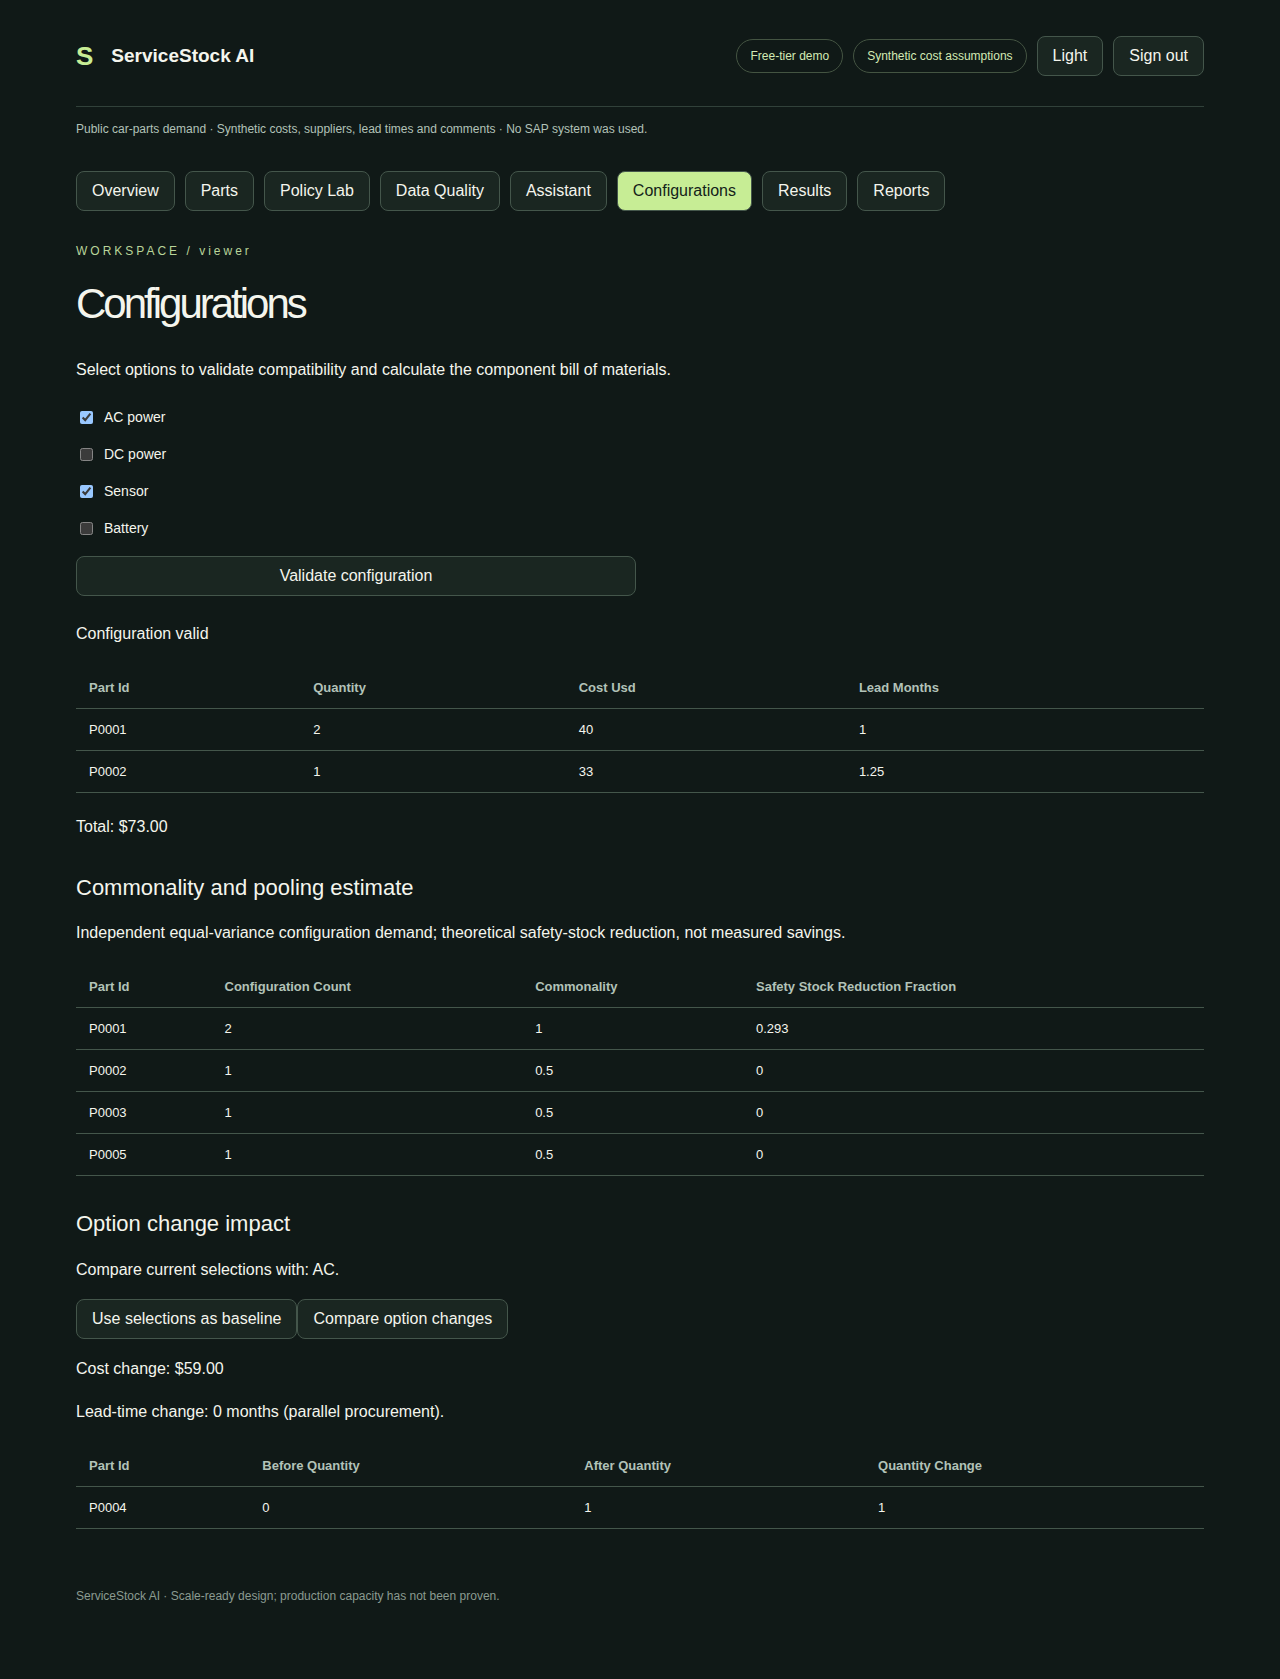
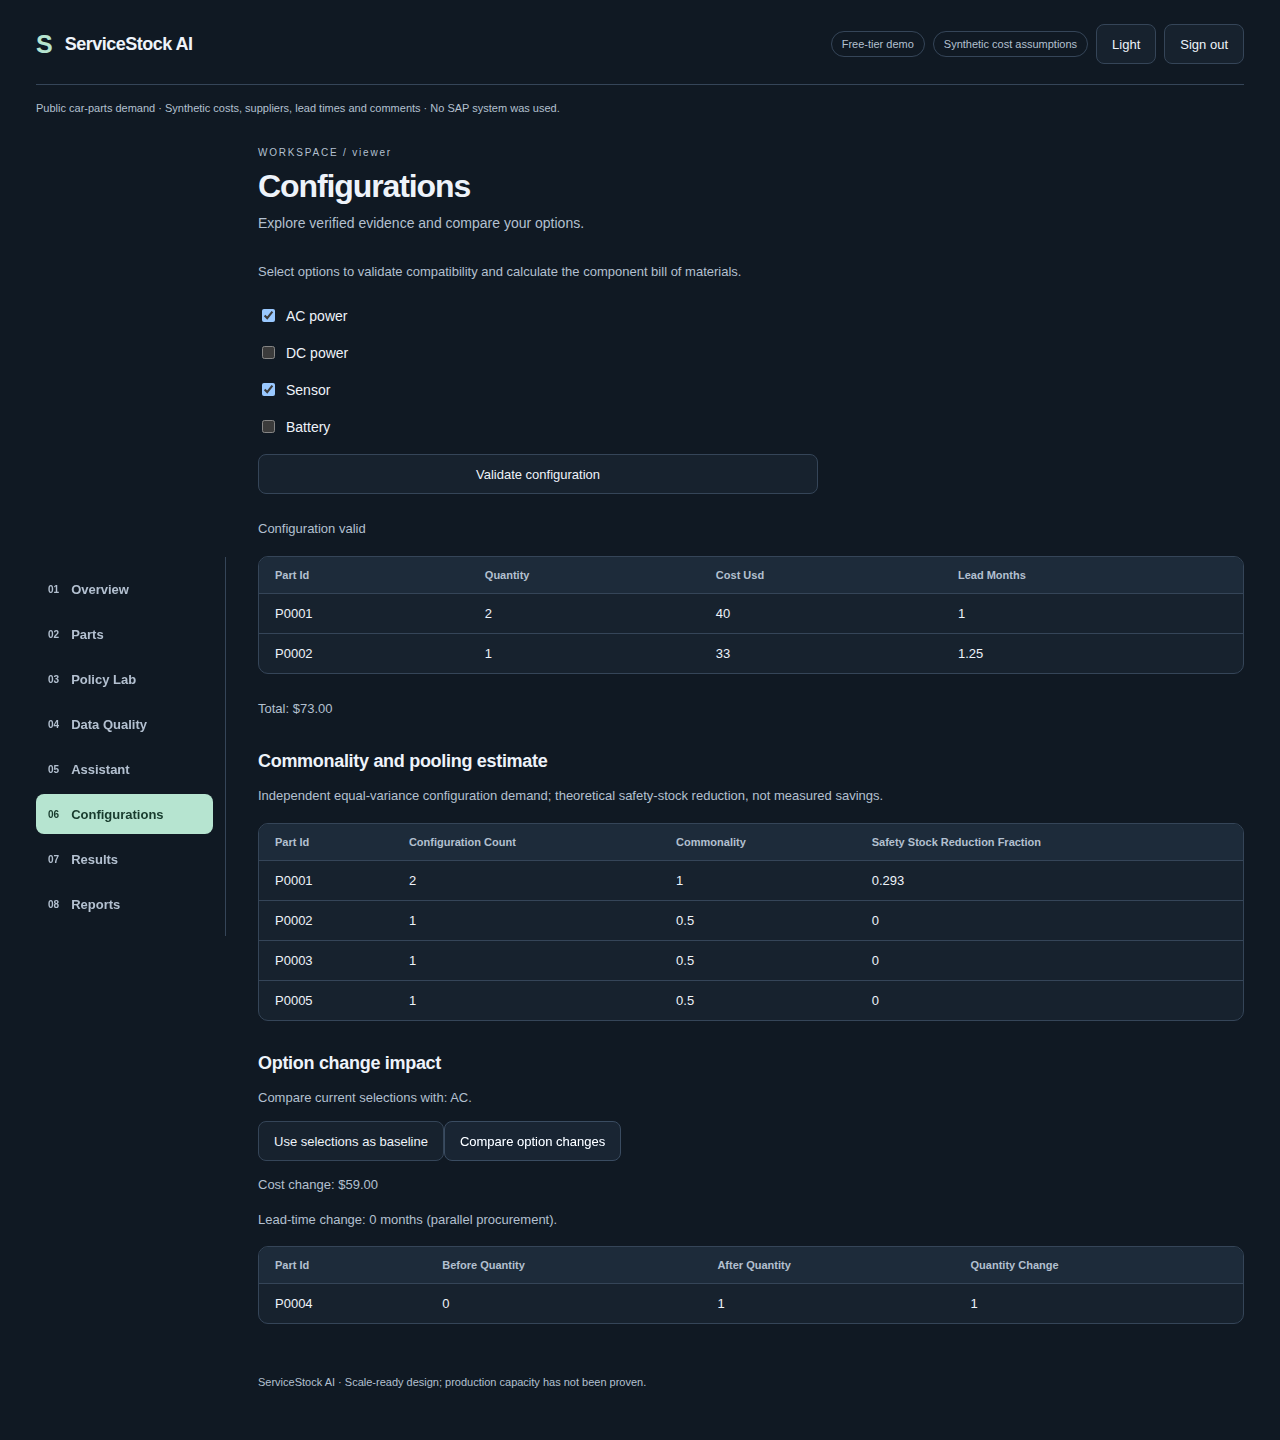
fix(web): resolve verified keyboard and contrast accessibility issues [skip render]

diff --git a/web/app/style.css b/web/app/style.css
@@ -10,10 +10,12 @@ main{--panel:#17222e;--text:#eef3fa;--muted:#b3c0d0;--line:#354558;--canvas:#101
 main[data-theme=light]{--panel:#fff;--text:#182536;--muted:#526275;--line:#d4dde7;--canvas:#f4f7fb;--accent:#d9efe5;--surface:#eaf0f6;background:var(--canvas)}
 header{padding:0 0 20px;gap:24px;border-color:var(--line)}header a{font-size:25px;color:var(--accent);gap:12px}header a span{color:var(--text);font-size:18px;letter-spacing:-.5px}.badges{gap:8px}.badge{font-size:11px;padding:6px 10px;color:var(--muted);border-color:var(--line)}
 .app-shell{display:grid;grid-template-columns:190px minmax(0,1fr);column-gap:32px;align-content:start}.app-shell>header,.app-shell>.provenance{grid-column:1/-1}.app-shell>div[role=status],.app-shell>section,.app-shell>footer{grid-column:2;min-width:0}.app-shell>nav{grid-column:1;grid-row:4 / span 2;display:flex;flex-direction:column;align-items:stretch;gap:5px;margin:0;align-self:start;position:sticky;top:24px;padding:12px 12px 12px 0;border-right:1px solid var(--line)}
-nav button{display:flex;align-items:center;text-align:left;gap:12px;border:0;background:transparent;padding:12px;font-size:13px;font-weight:550;border-radius:8px;color:var(--muted)}.nav-marker{font-size:10px;font-variant-numeric:tabular-nums;opacity:.8}nav button[aria-current=page]{background:var(--accent);color:#183b2d;font-weight:650}button:hover:not(:disabled){filter:brightness(1.1)}button{font-size:13px;min-height:40px}button.primary{background:var(--accent);color:#183b2d;border-color:transparent}
+nav button{display:flex;align-items:center;text-align:left;gap:12px;border:0;background:transparent;padding:12px;font-size:13px;font-weight:550;border-radius:8px;color:var(--muted)}.nav-marker{font-size:10px;font-variant-numeric:tabular-nums;opacity:1}nav button[aria-current=page]{background:var(--accent);color:#183b2d;font-weight:650}button:hover:not(:disabled){filter:brightness(1.1)}button{font-size:13px;min-height:40px}button.primary{background:var(--accent);color:#183b2d;border-color:transparent}
 .provenance{font-size:11px;margin:14px 0 26px}.eyebrow{font-size:10px;letter-spacing:1.8px;color:var(--muted);margin:0}.page-title{font-size:32px;letter-spacing:-1.1px;font-weight:650;margin:8px 0}.page-intro{color:var(--muted);font-size:14px;margin:0 0 26px}.cards{gap:16px}.cards article{padding:22px;border-radius:12px;border-color:var(--line);box-shadow:0 3px 12px #00000008}.cards h2{font-size:12px;color:var(--muted);margin-bottom:14px;letter-spacing:.15px}.cards strong{font-size:clamp(23px,2.5vw,34px);letter-spacing:-1px;font-weight:650}.cards article:first-child{border-top:3px solid #62b59b}.cards article:nth-child(2){border-top:3px solid #70a7df}.cards article:nth-child(3){border-top:3px solid #cda26c}
 section>h2{font-size:18px;font-weight:600;margin:32px 0 12px;letter-spacing:-.3px}section>p{font-size:13px;color:var(--muted);line-height:1.65}.table-wrap{border:1px solid var(--line);border-radius:10px;background:var(--panel);margin:16px 0 24px}th{background:var(--surface);font-size:11px;font-weight:600;white-space:nowrap}th,td{padding:12px 16px;border-color:var(--line)}tbody tr:last-child td{border-bottom:0}tbody tr:hover{background:var(--surface)}.chart{border:1px solid var(--line);border-radius:12px;padding:22px;margin:14px 0}.chart svg text{fill:var(--muted)}details{background:var(--panel);font-size:13px;border-radius:10px}footer{font-size:11px;color:var(--muted);padding:28px 0}.inline{max-width:none;align-items:end;padding:18px;background:var(--panel);border:1px solid var(--line);border-radius:10px}.empty{padding:24px;border:1px dashed var(--line);border-radius:10px;color:var(--muted)}.loading,.notice{font-size:13px;border-color:#62b59b;border-radius:6px}.welcome-shell{padding:28px max(24px,calc((100vw - 1160px)/2))}.login{max-width:560px;margin:5vh auto;padding:32px}.login h1{font-size:60px;letter-spacing:-2.5px}.login form{padding:24px;border:1px solid var(--line);background:var(--panel);border-radius:14px}.login h1 span{color:#8ed4b9}input,select,textarea{font-size:14px;background:var(--canvas)}
 @media(min-width:1600px){.app-shell{padding-left:calc((100vw - 1500px)/2);padding-right:calc((100vw - 1500px)/2)}}
 @media(max-width:1000px){.app-shell{grid-template-columns:150px minmax(0,1fr);column-gap:20px;padding:20px}.cards{gap:10px}.cards article{padding:16px}.badges .badge{font-size:10px}}
 @media(max-width:760px){.app-shell{display:block;padding:18px}.app-shell>nav{position:static;flex-direction:row;flex-wrap:wrap;border:0;border-bottom:1px solid var(--line);padding:0 0 16px;margin-bottom:20px}.nav-marker{display:none}header{gap:14px}.cards{grid-template-columns:1fr}.page-title{font-size:28px}.login{padding:12px}.login h1{font-size:44px}.welcome-shell{padding:20px}.provenance{margin-bottom:18px}}
 @media(prefers-reduced-motion:reduce){*{scroll-behavior:auto!important;transition:none!important}}
+
+.table-wrap:focus-visible{outline:3px solid #4197db;outline-offset:3px}

diff --git a/web/app/page.tsx b/web/app/page.tsx
@@ -22,7 +22,7 @@ const rows = (value: Json | undefined): RecordData[] => Array.isArray(value) ? v
 function Table({data}: {data: RecordData[]}) {
   if (!data.length) return <p className="empty">No records available.</p>;
   const keys = Object.keys(data[0]).filter(key => data.every(row => row[key] === null || typeof row[key] !== 'object'));
-  return <div className="table-wrap"><table><thead><tr>{keys.map(key=><th key={key}>{key.replaceAll('_',' ')}</th>)}</tr></thead><tbody>{data.map((row,index)=><tr key={index}>{keys.map(key=><td key={key}>{typeof row[key] === 'number' ? Number(row[key]).toLocaleString('en-US',{maximumFractionDigits:3}) : String(row[key] ?? 'Not measured')}</td>)}</tr>)}</tbody></table></div>;
+  return <div className="table-wrap" tabIndex={0} role="region" aria-label="Scrollable data table"><table><thead><tr>{keys.map(key=><th key={key}>{key.replaceAll('_',' ')}</th>)}</tr></thead><tbody>{data.map((row,index)=><tr key={index}>{keys.map(key=><td key={key}>{typeof row[key] === 'number' ? Number(row[key]).toLocaleString('en-US',{maximumFractionDigits:3}) : String(row[key] ?? 'Not measured')}</td>)}</tr>)}</tbody></table></div>;
 }
 
 function Details({data}: {data: Json}) {

diff --git a/docs/BROWSER_REGRESSION_2026_10_29.md b/docs/BROWSER_REGRESSION_2026_10_29.md
@@ -1,0 +1,22 @@
+# Browser regression — 2026-10-29
+
+The macOS Chromium launch restriction was resolved for testing by using the existing
+local mcr.microsoft.com/playwright:v1.64.1-noble Docker image, with an isolated
+node_modules volume. No hosted runner or paid infrastructure was used.
+
+The first working suite ran six functional journeys successfully and found two
+accessibility issues: light-theme navigation markers had insufficient contrast,
+and an overflowing Results table was not keyboard focusable. Marker opacity is
+now 1 and generic data-table scroll regions are labelled, focusable and visibly
+outlined on keyboard focus. The production build and 13 frontend unit tests pass.
+
+The suite covers keyboard login/skip link, three responsive widths, part drilldown,
+scenario/assistant/configuration, admin jobs, plus mocked role editing and job-error
+handling. The role-editing and job-error cases are intentionally mocked; they do
+not establish a full hosted admin test. Automated accessibility scans cover nine
+initial admin views in two themes, not every interaction or human screen-reader use.
+
+Machine-readable latest results: results/accessibility.json and results/ui.json.
+
+Final rerun: all 7 browser tests passed in 12.5 seconds. All 18 automated
+accessibility page/theme checks reported zero violations.
